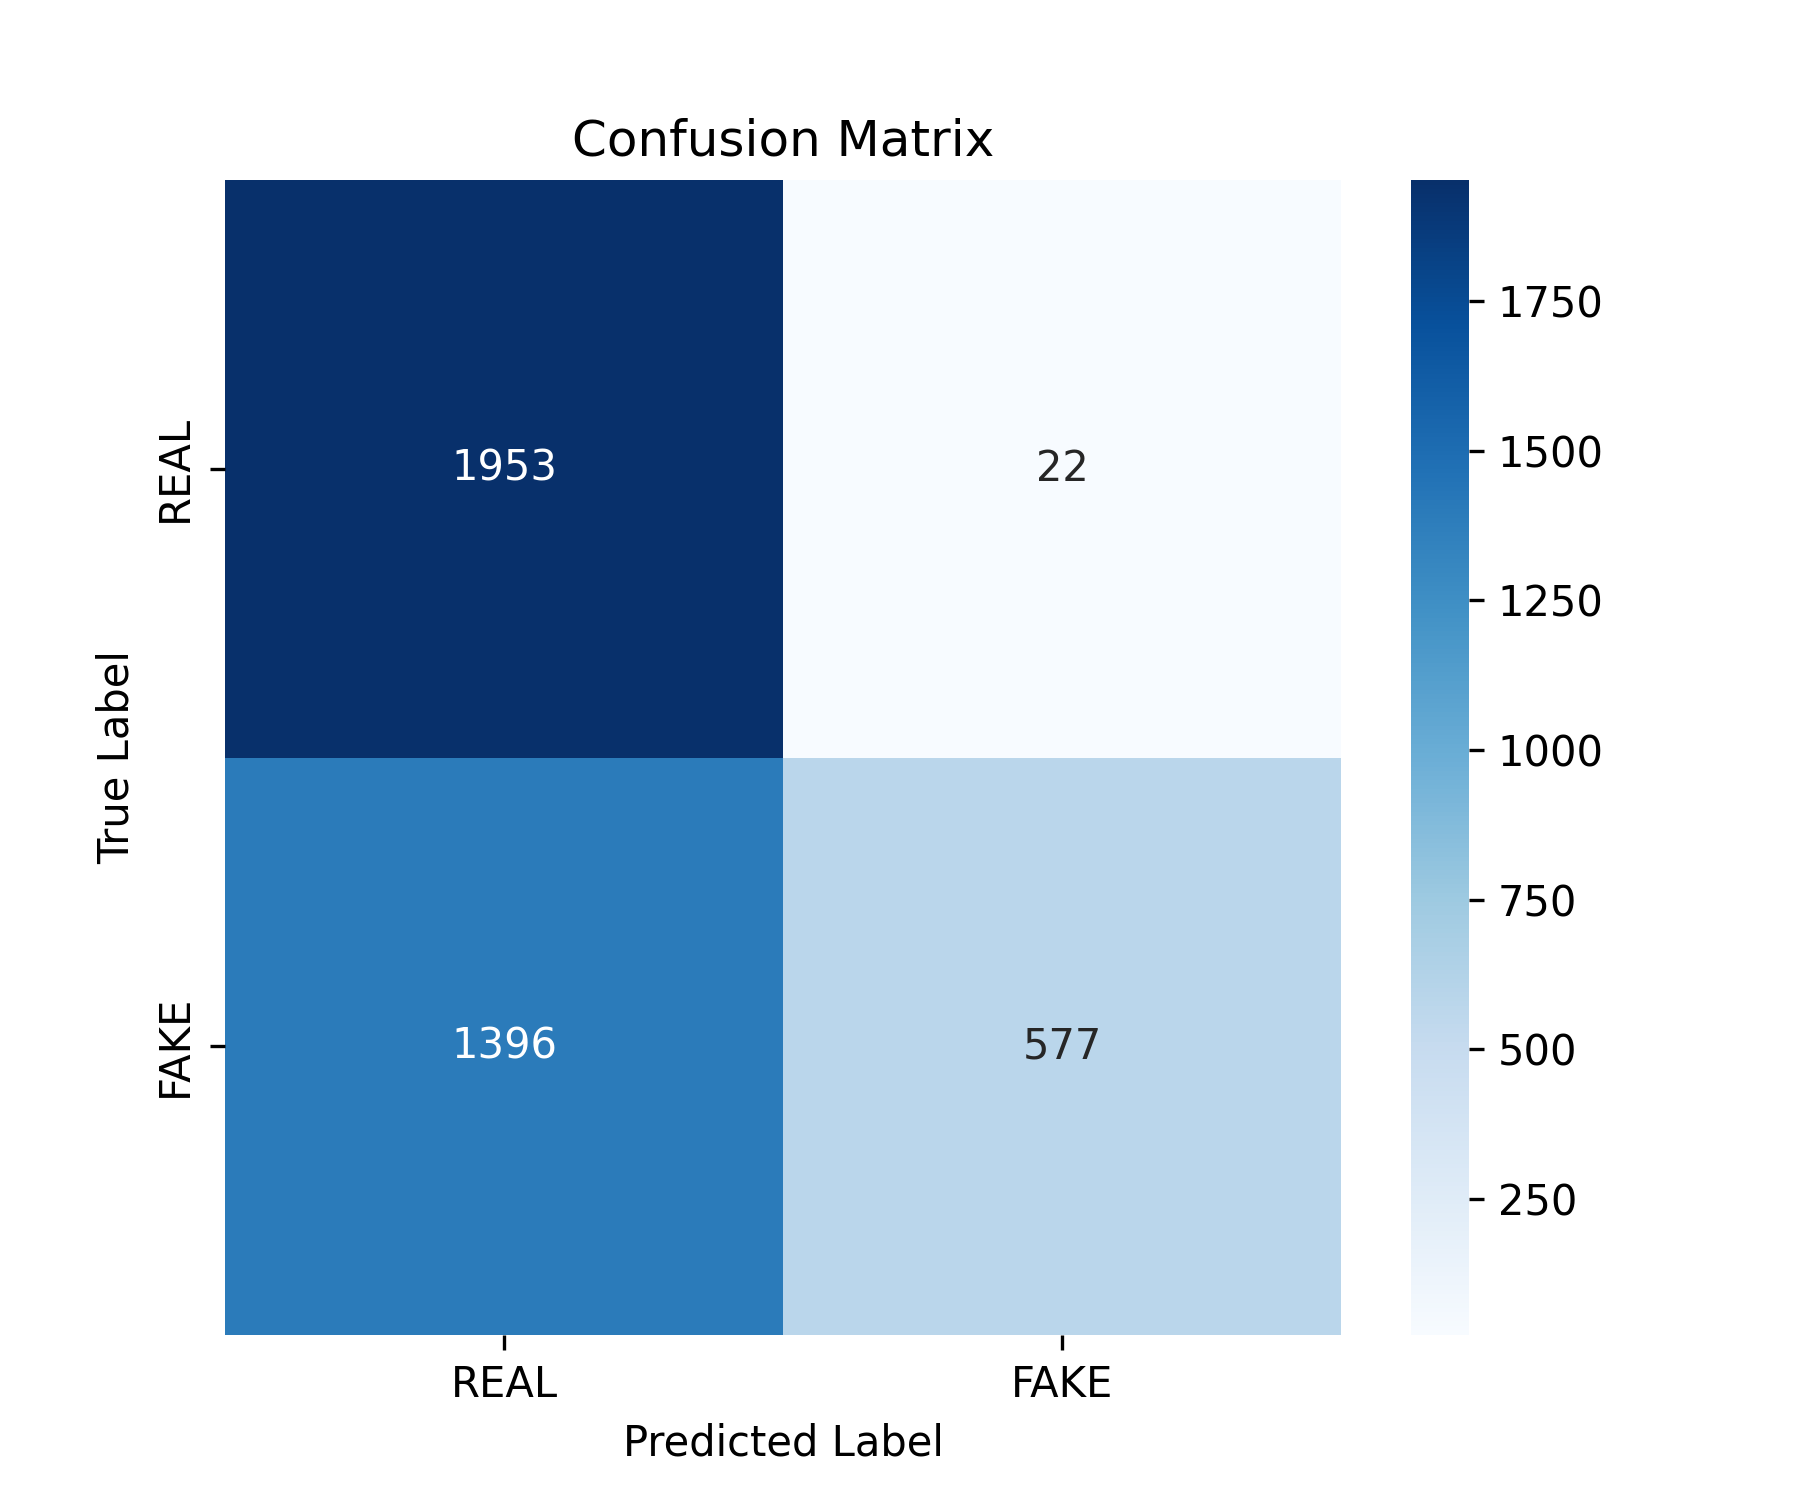
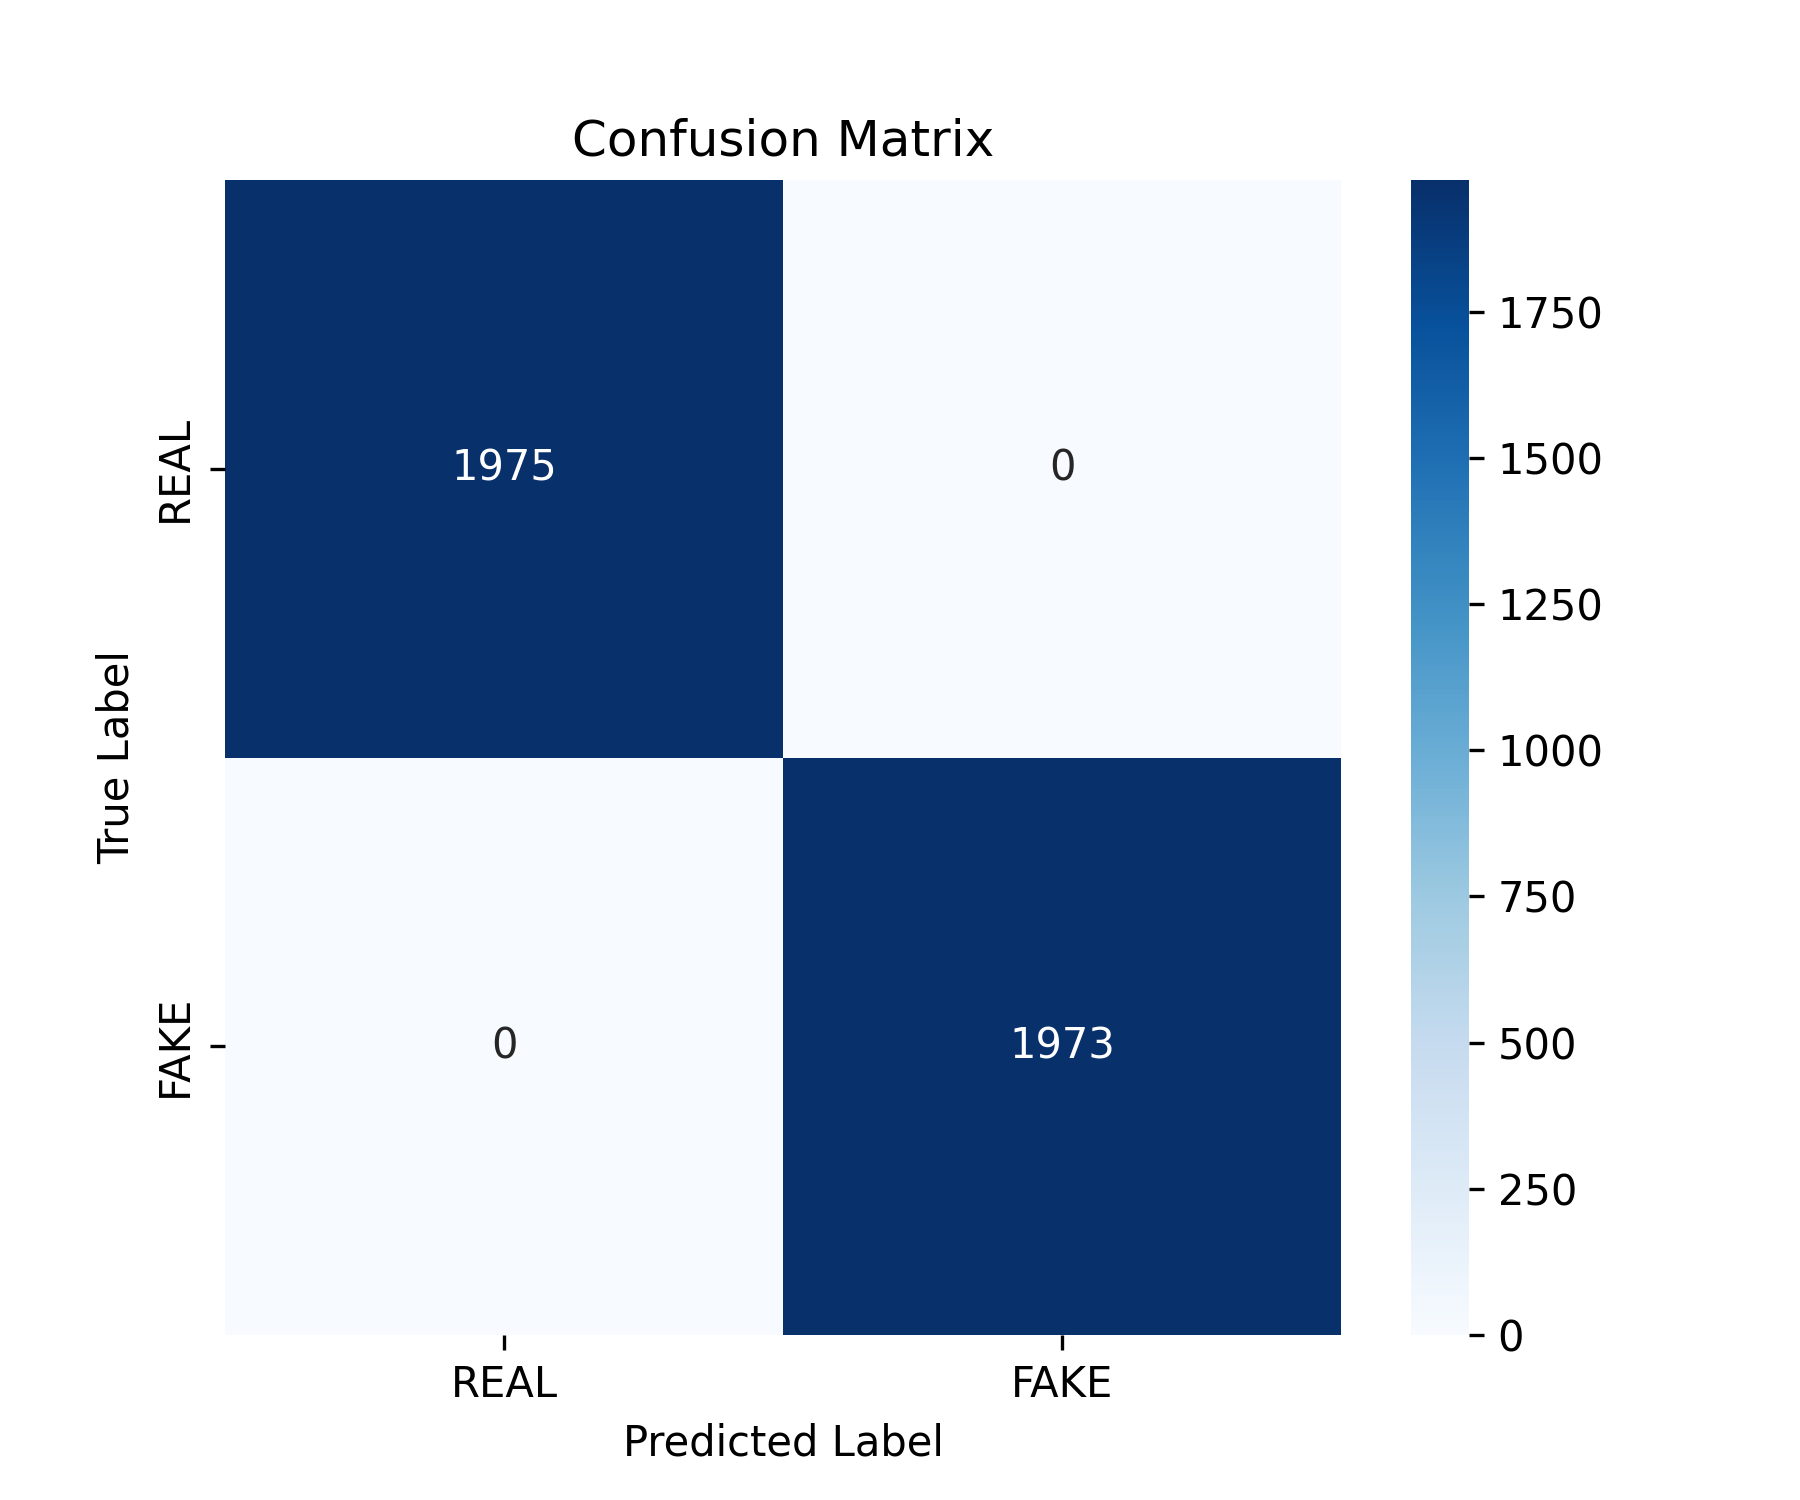
Update configuration and model settings: change data directory to powerspectra, update checkpoint path, and modify model to use pretrained weights; update confusion matrix and ROC curve images.

diff --git a/model.py b/model.py
@@ -5,7 +5,7 @@ from config import Config
 class SwinTinyBinary(nn.Module):
     def __init__(self):
         super(SwinTinyBinary, self).__init__()
-        self.model = timm.create_model("swin_tiny_patch4_window7_224", pretrained=True, num_classes=Config.num_classes)
+        self.model = timm.create_model("swin_tiny_patch4_window7_224", pretrained=False, num_classes=Config.num_classes)
 
     def forward(self, x):
         return self.model(x)

diff --git a/config.py b/config.py
@@ -1,10 +1,10 @@
 import torch
 
 class Config:
-    data_dir = "./processed_dct_log_scaled"  # Update this
+    data_dir = "./powerspectra"  # Update this
     batch_size = 32
     num_epochs = 20
     learning_rate = 1e-4
-    checkpoint_path = "./models/swin_t_pretrained_DCT.pth"
+    checkpoint_path = "./models/best_swin_tiny_scratch_powerspectra.pth"
     num_classes = 2  # Binary classification
     device = torch.device("mps")
